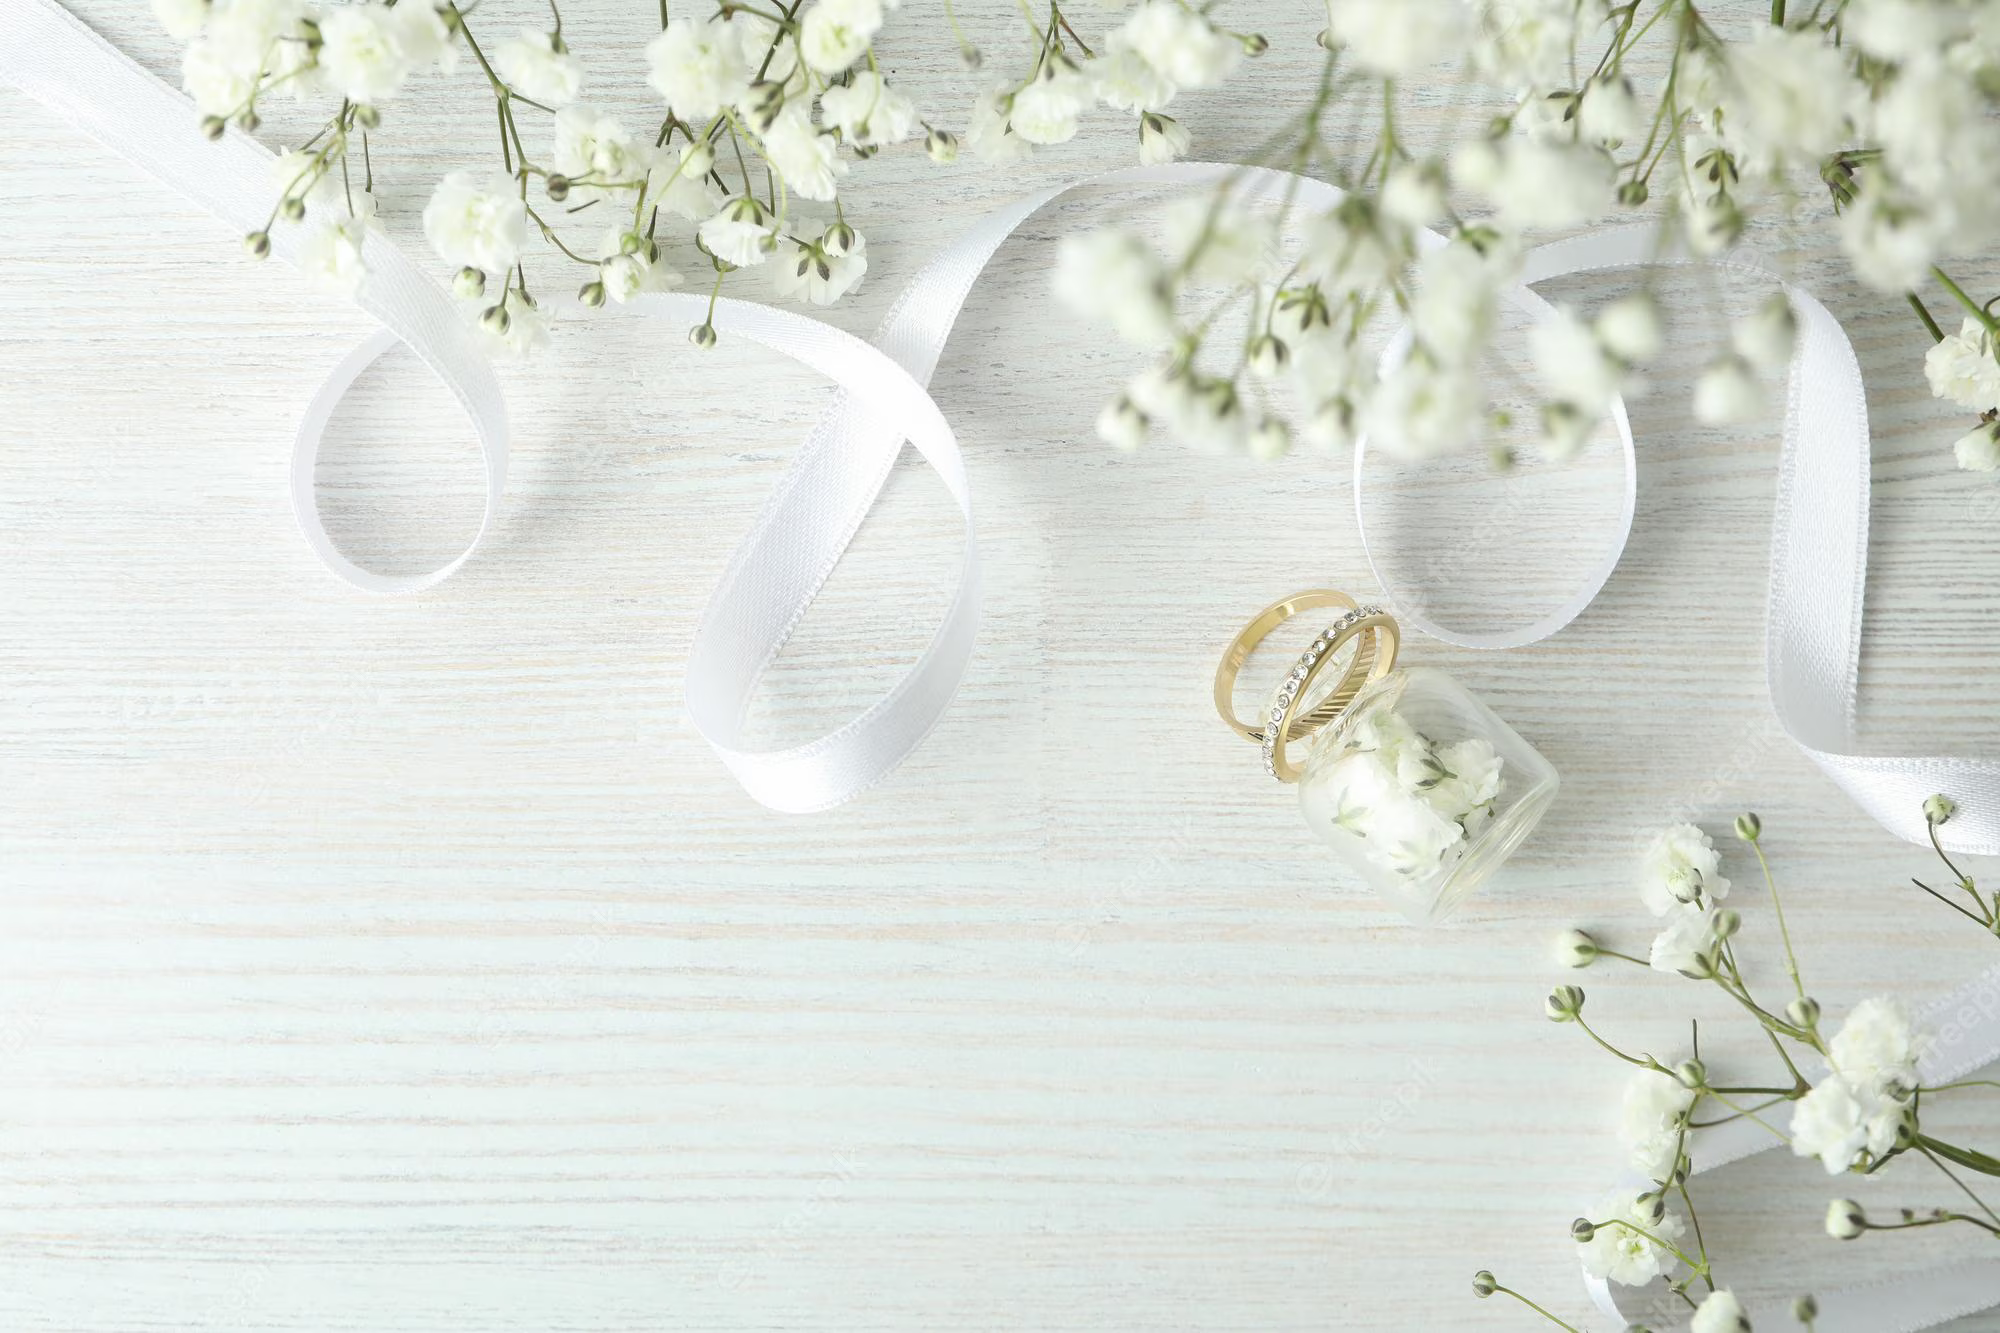
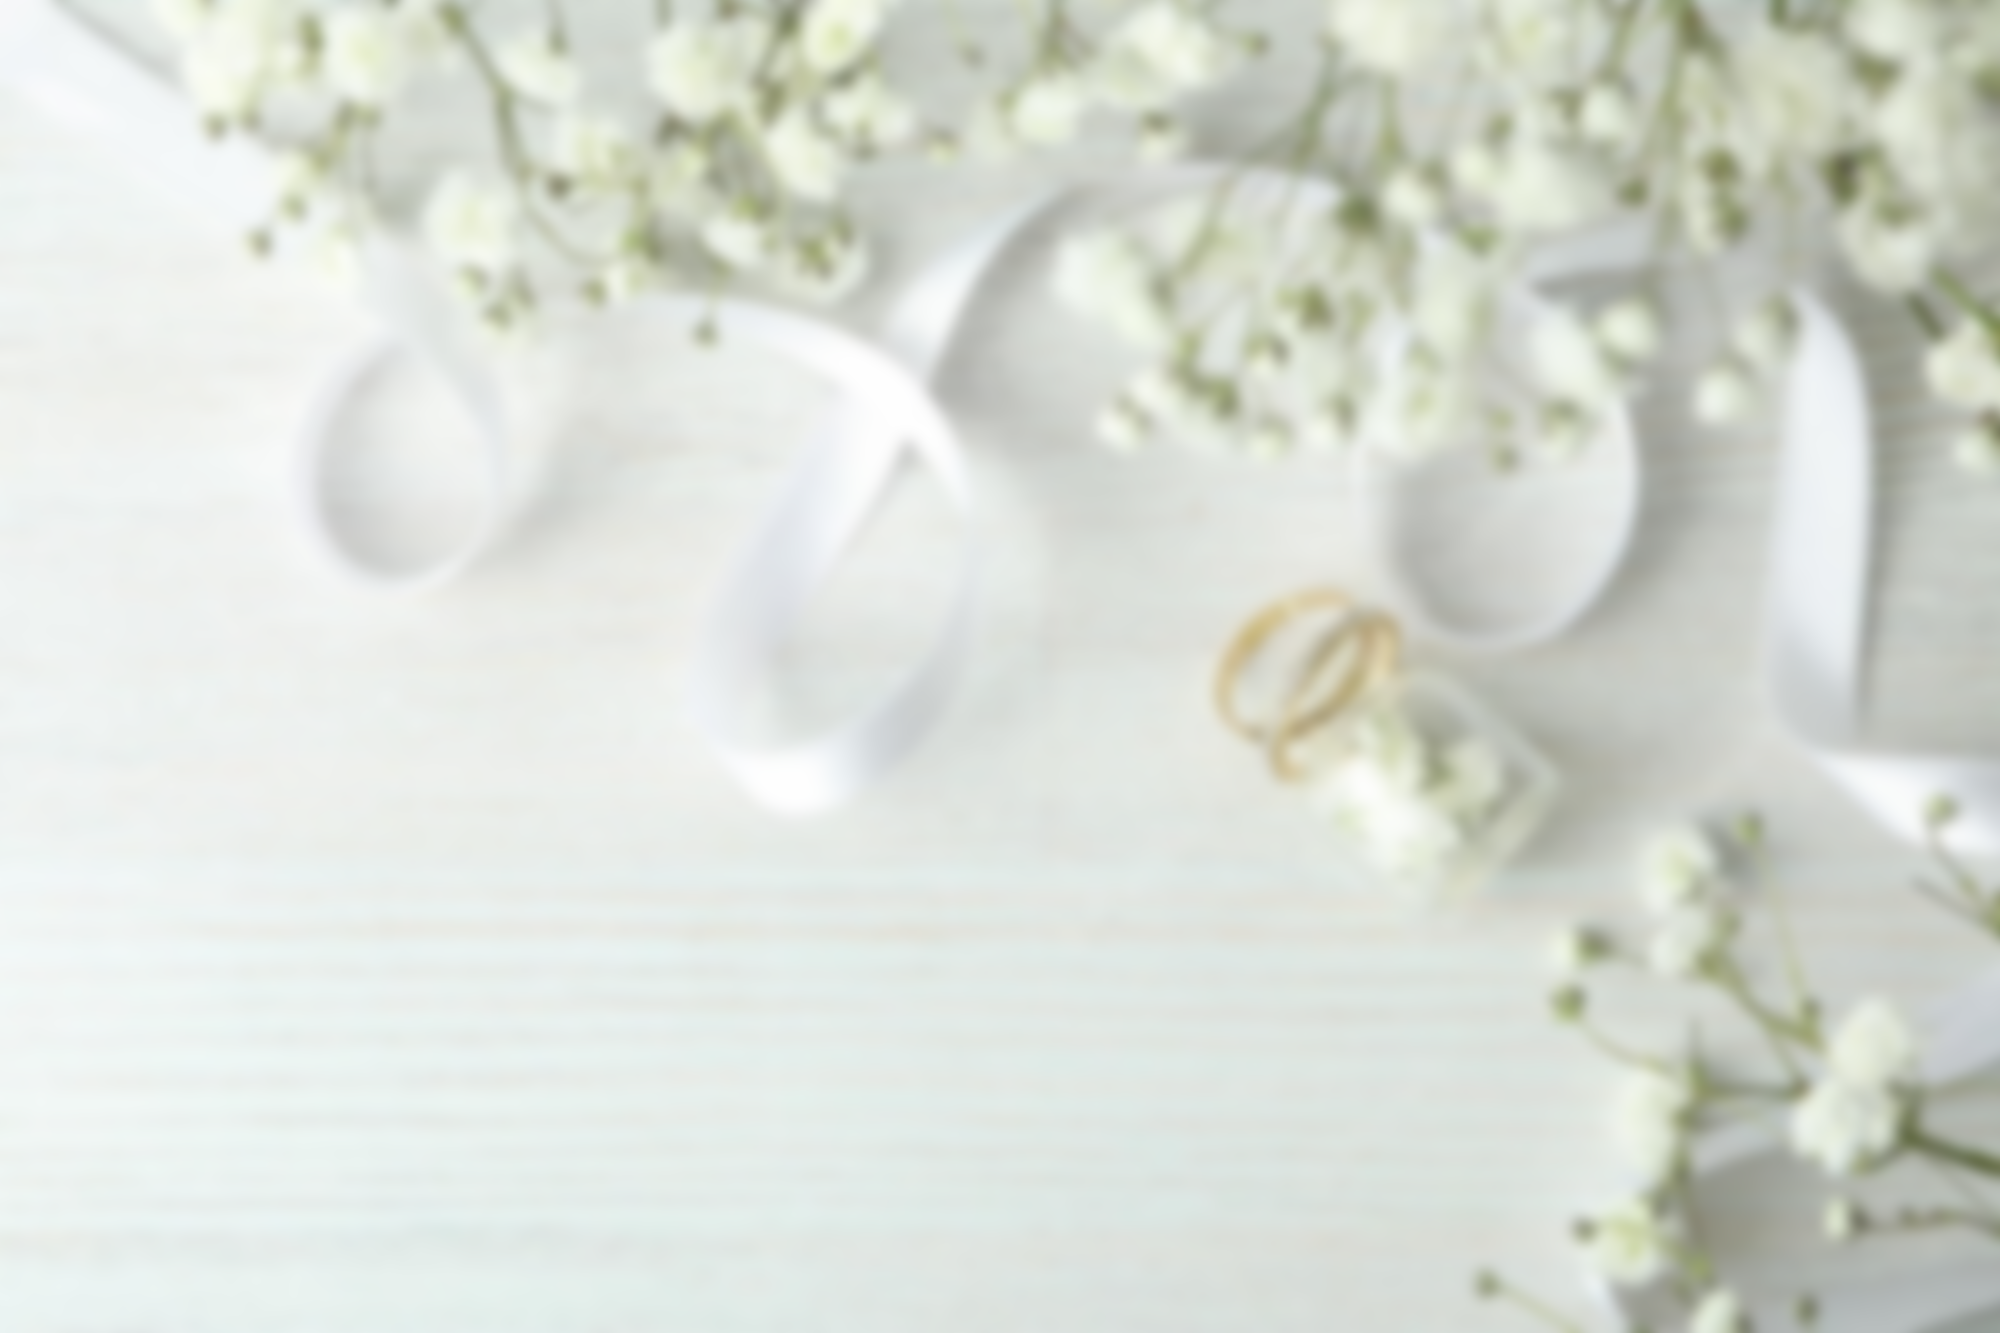
gitignore and lil fixes

diff --git a/wedding/extensions/front/static/css/style.css b/wedding/extensions/front/static/css/style.css
@@ -23,7 +23,6 @@ body {
   min-height: 100%;
   display: grid;
   grid-template-rows: 1fr auto;
-  backdrop-filter: blur(5px);
   background-image:    url(../img/background.png);
   background-color: rgb(255, 255, 255);
   background-size:     cover;
